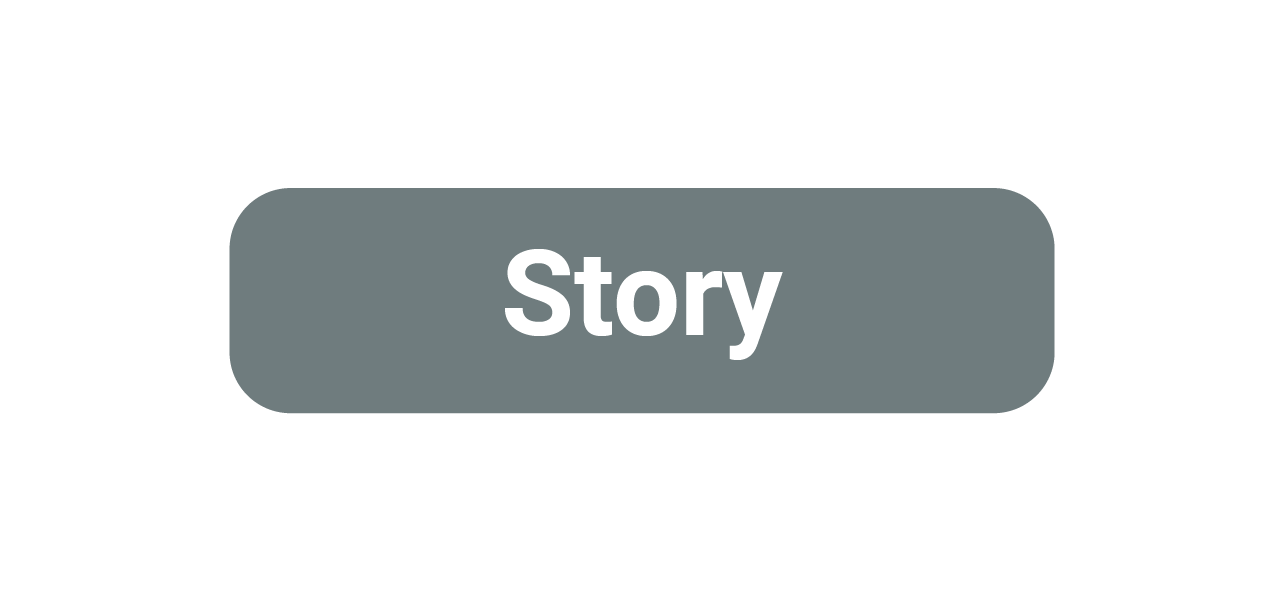
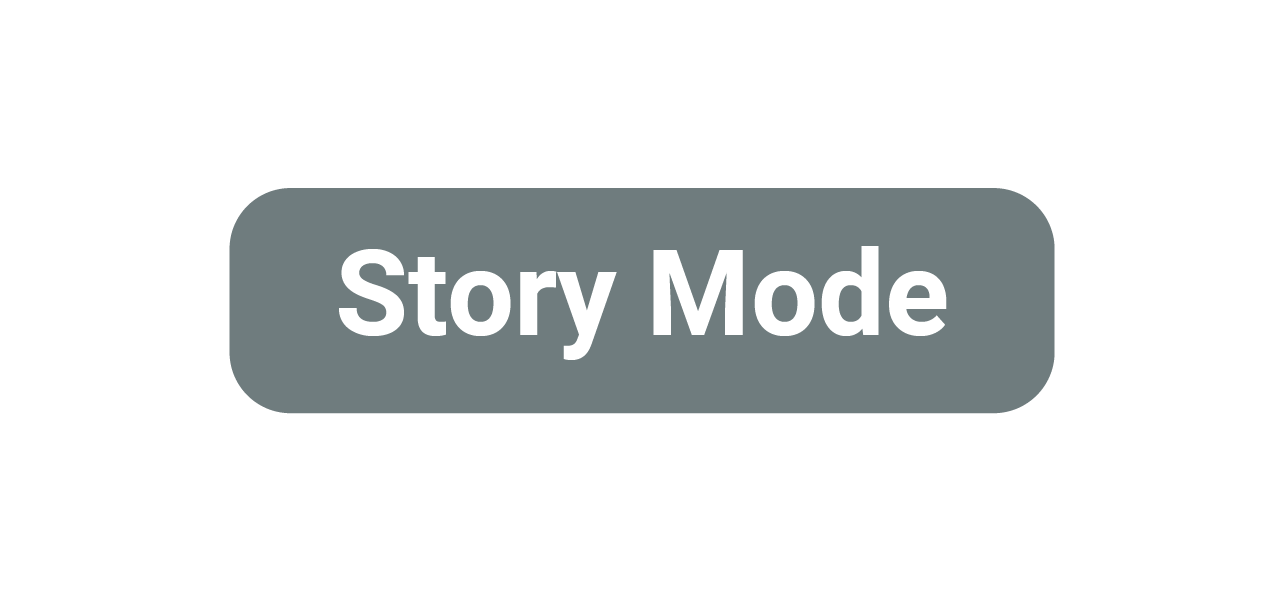
Nodes edits

Changed region(s): [[0.249, 0.3894, 0.7471, 0.599]]

diff --git a/skin.js b/skin.js
@@ -1,7 +1,7 @@
 // Garden Gnome Software - Skin
 // Pano2VR 6.1.15/18116
 // Filename: hotspot.ggsk
-// Generated 2022-11-10T10:24:36
+// Generated 2022-11-10T11:16:38
 
 function pano2vrSkin(player,base) {
 	player.addVariable('ht_ani', 2, false);
@@ -1221,32 +1221,7 @@ function pano2vrSkin(player,base) {
 		el=me._image_10=document.createElement('div');
 		els=me._image_10__img=document.createElement('img');
 		els.className='ggskin ggskin_image_10';
[1 lines of base64/hex data omitted]
-			'IAAABAMqIgAAAAACQjCgIAAABAMqIgAAAAACQjCgIAAABAMqIgAAAAACQjCgIAAABAMqIgAAAAACQjCgIAAABAMqIgAAAAACQjCgIAAABAMqIgAAAAACQjCgIAAABAMqIgAAAAACQjCgIAAABAMqIgAAAAACQjCgIAAABAMqIgAAAAACQjCgIAAABAMqIgAAAAACQjCgIAAABAMqIgAAAAACQjCgIAAABAMqIgAAAAACQjCgIAAABAMqIgAAAAACQjCgIAAABAMqIgAAAAACQjCgIAAABAMqIgAAAAACQjCgIAAABAMqIgAAAAACQjCgIAAABAMqIgAAAAACQjCgIAAABAMqIgAAAAACQjCgIAAABAMqIgAAAAACQjCgIAAABAMqIgAAAAACQjCgIAAABAMqIgAAAAACQjCgIAAABAMqIgAAAAACQjCgIAAABAMqIg'+
-			'AAAAACQjCgIAAABAMqIgAAAAACQjCgIAAABAMqIgAAAAACQjCgIAAABAMqIgAAAAACQjCgIAAABAMqIgAAAAACQjCgIAAABAMqIgAAAAACQjCgIAAABAMqIgAAAAACQjCgIAAABAMqIgAAAAACQjCgIAAABAMqIgAAAAACQjCgIAAABAMqIgAAAAACQjCgIAAABAMqIgAAAAACQjCgIAAABAMqIgAAAAACQjCgIAAABAMqIgAAAAACQjCgIAAABAMqIgAAAAACQjCgIAAABAMqIgAAAAACQjCgIAAABAMqIgAAAAACQjCgIAAABAMqIgAAAAACQjCgIAAABAMqIgAAAAACQjCgIAAABAMqIgAAAAACQjCgIAAABAMqIgAAAAACQjCgIAAABAMqIgAAAAACQjCgIAAABAMqIgAAAAACQjCgIAAABAMqIgAAAAACQjCg'+
-			'IAAABAMqIgAAAAACQjCgIAAABAMqIgAAAAACQjCgIAAABAMqIgAAAAACQjCgIAAABAMqIgAAAAACQjCgIAAABAMqIgAAAAACQjCgIAAABAMqIgAAAAACQjCgIAAABAMqIgAAAAACQjCgIAAABAMqIgAAAAACQjCgIAAABAMqIgAAAAACQjCgIAAABAMqIgAAAAACQjCgIAAABAMqIgAAAAACQjCgIAAABAMqIgAAAAACQjCgIAAABAMqIgAAAAACQjCgIAAABAMqIgAAAAACQjCgIAAABAMqIgAAAAACQjCgIAAABAMqIgAAAAACQjCgIAAABAMqIgAAAAACQjCgIAAABAMqIgAAAAACQjCgIAAABAMqIgAAAAACQjCgIAAABAMqIgAAAAACQjCgIAAABAMqIgAAAAACQjCgIAAABAMqIgAAAAACQjCgIAAABAMqIg'+
[18 lines of base64/hex data omitted]
-			'FAQAAACAZERBAAAAAEhGFAQAAACAZERBAAAAAEhGFAQAAACAZERBAAAAAEhGFAQAAACAZERBAAAAAEhGFAQAAACAZERBAAAAAEhGFAQAAACAZERBAAAAAEhGFAQAAACAZERBAAAAAEhGFAQAAACAZERBAAAAAEhGFAQAAACAZERBAAAAAEhGFAQAAACAZERBAAAAAEhGFAQAAACAZERBAAAAAEhGFAQAAACAZERBAAAAAEhGFAQAAACAZERBAAAAAEhGFAQAAACAZERBAAAAAEhGFAQAAACAZERBAAAAAEhGFAQAAACAZERBAAAAAEhGFAQAAACAZERBAAAAAEhGFAQAAACAZERBAAAAAEhGFAQAAACAZERBAAAAAEhGFAQAAACAZERBAAAAAEhGFAQAAACAZERBAAAAAEhGFAQAAACAZERBAAAAAEhGFAQAAACAZE'+
-			'RBAAAAAEhGFAQAAACAZERBAAAAAEhGFAQAAACAZERBAAAAAEhGFAQAAACAZERBAAAAAEhGFAQAAACAZERBAAAAAEhGFAQAAACAZERBAAAAAEhGFAQAAACAZERBAAAAAEhGFAQAAACAZERBAAAAAEhGFAQAAACAZERBAAAAAEhGFAQAAACAZERBAAAAAEhGFAQAAACAZERBAAAAAEhGFAQAAACAZERBAAAAAEhGFAQAAACAZERBAAAAAEhGFAQAAACAZERBAAAAAEhGFAQAAACAZERBAAAAAEhGFAQAAACAZERBAAAAAEhGFAQAAACAZERBAAAAAEhGFAQAAACAZERBAAAAAEhGFAQAAACAZERBAAAAAEhGFAQAAACAZERBAAAAAEhGFAQAAACAZERBAAAAAEhGFAQAAACAZERBAAAAAEhGFAQAAACAZERBAAAAAEhG'+
-			'FAQAAACAZERBAAAAAEhGFAQAAACAZERBAAAAAEhGFAQAAACAZERBAAAAAEhGFAQAAACAZERBAAAAAEhGFAQAAACAZERBAAAAAEhGFAQAAACAZERBAAAAAEhGFAQAAACAZERBAAAAAEhGFAQAAACAZERBAAAAAEhGFAQAAACAZERBAAAAADApOWEAAAEOSURBVEhGFAQAAACAZERBAAAAAEhGFAQAAACAZERBAAAAAEhGFAQAAACAZERBAAAAAEhGFAQAAACAZERBAAAAAEhGFAQAAACAZERBAAAAAEhGFAQAAACAZERBAAAAAEhGFAQAAACAZERBAAAAAEhGFAQAAACAZERBAAAAAEhGFAQAAACAZERBAAAAAEhGFAQAAACAZERBAAAAAEhGFAQAAACAZERBAAAAAEhGFAQAAACAZERBAAAAAEhGFAQAAACAZERBAA'+
[1 lines of base64/hex data omitted]
+		hs=basePath + 'images/image_10.png';
 		els.setAttribute('src',hs);
 		els.ggNormalSrc=hs;
 		els.setAttribute('style','position: absolute;top: 0px;left: 0px;width: 100%;height: 100%;-webkit-user-drag:none;pointer-events:none;;');
@@ -1266,9 +1241,9 @@ function pano2vrSkin(player,base) {
 		el.ggType='button';
 		hs ='';
 		hs+='height : 150px;';
-		hs+='left : -87px;';
+		hs+='left : -133px;';
 		hs+='position : absolute;';
-		hs+='top : -65px;';
+		hs+='top : -77px;';
 		hs+='visibility : inherit;';
 		hs+='width : 275px;';
 		hs+='pointer-events:auto;';
@@ -1597,9 +1572,9 @@ function pano2vrSkin(player,base) {
 		el.ggType='button';
 		hs ='';
 		hs+='height : 150px;';
-		hs+='left : -86px;';
+		hs+='left : -133px;';
 		hs+='position : absolute;';
-		hs+='top : -65px;';
+		hs+='top : -75px;';
 		hs+='visibility : inherit;';
 		hs+='width : 275px;';
 		hs+='pointer-events:auto;';
